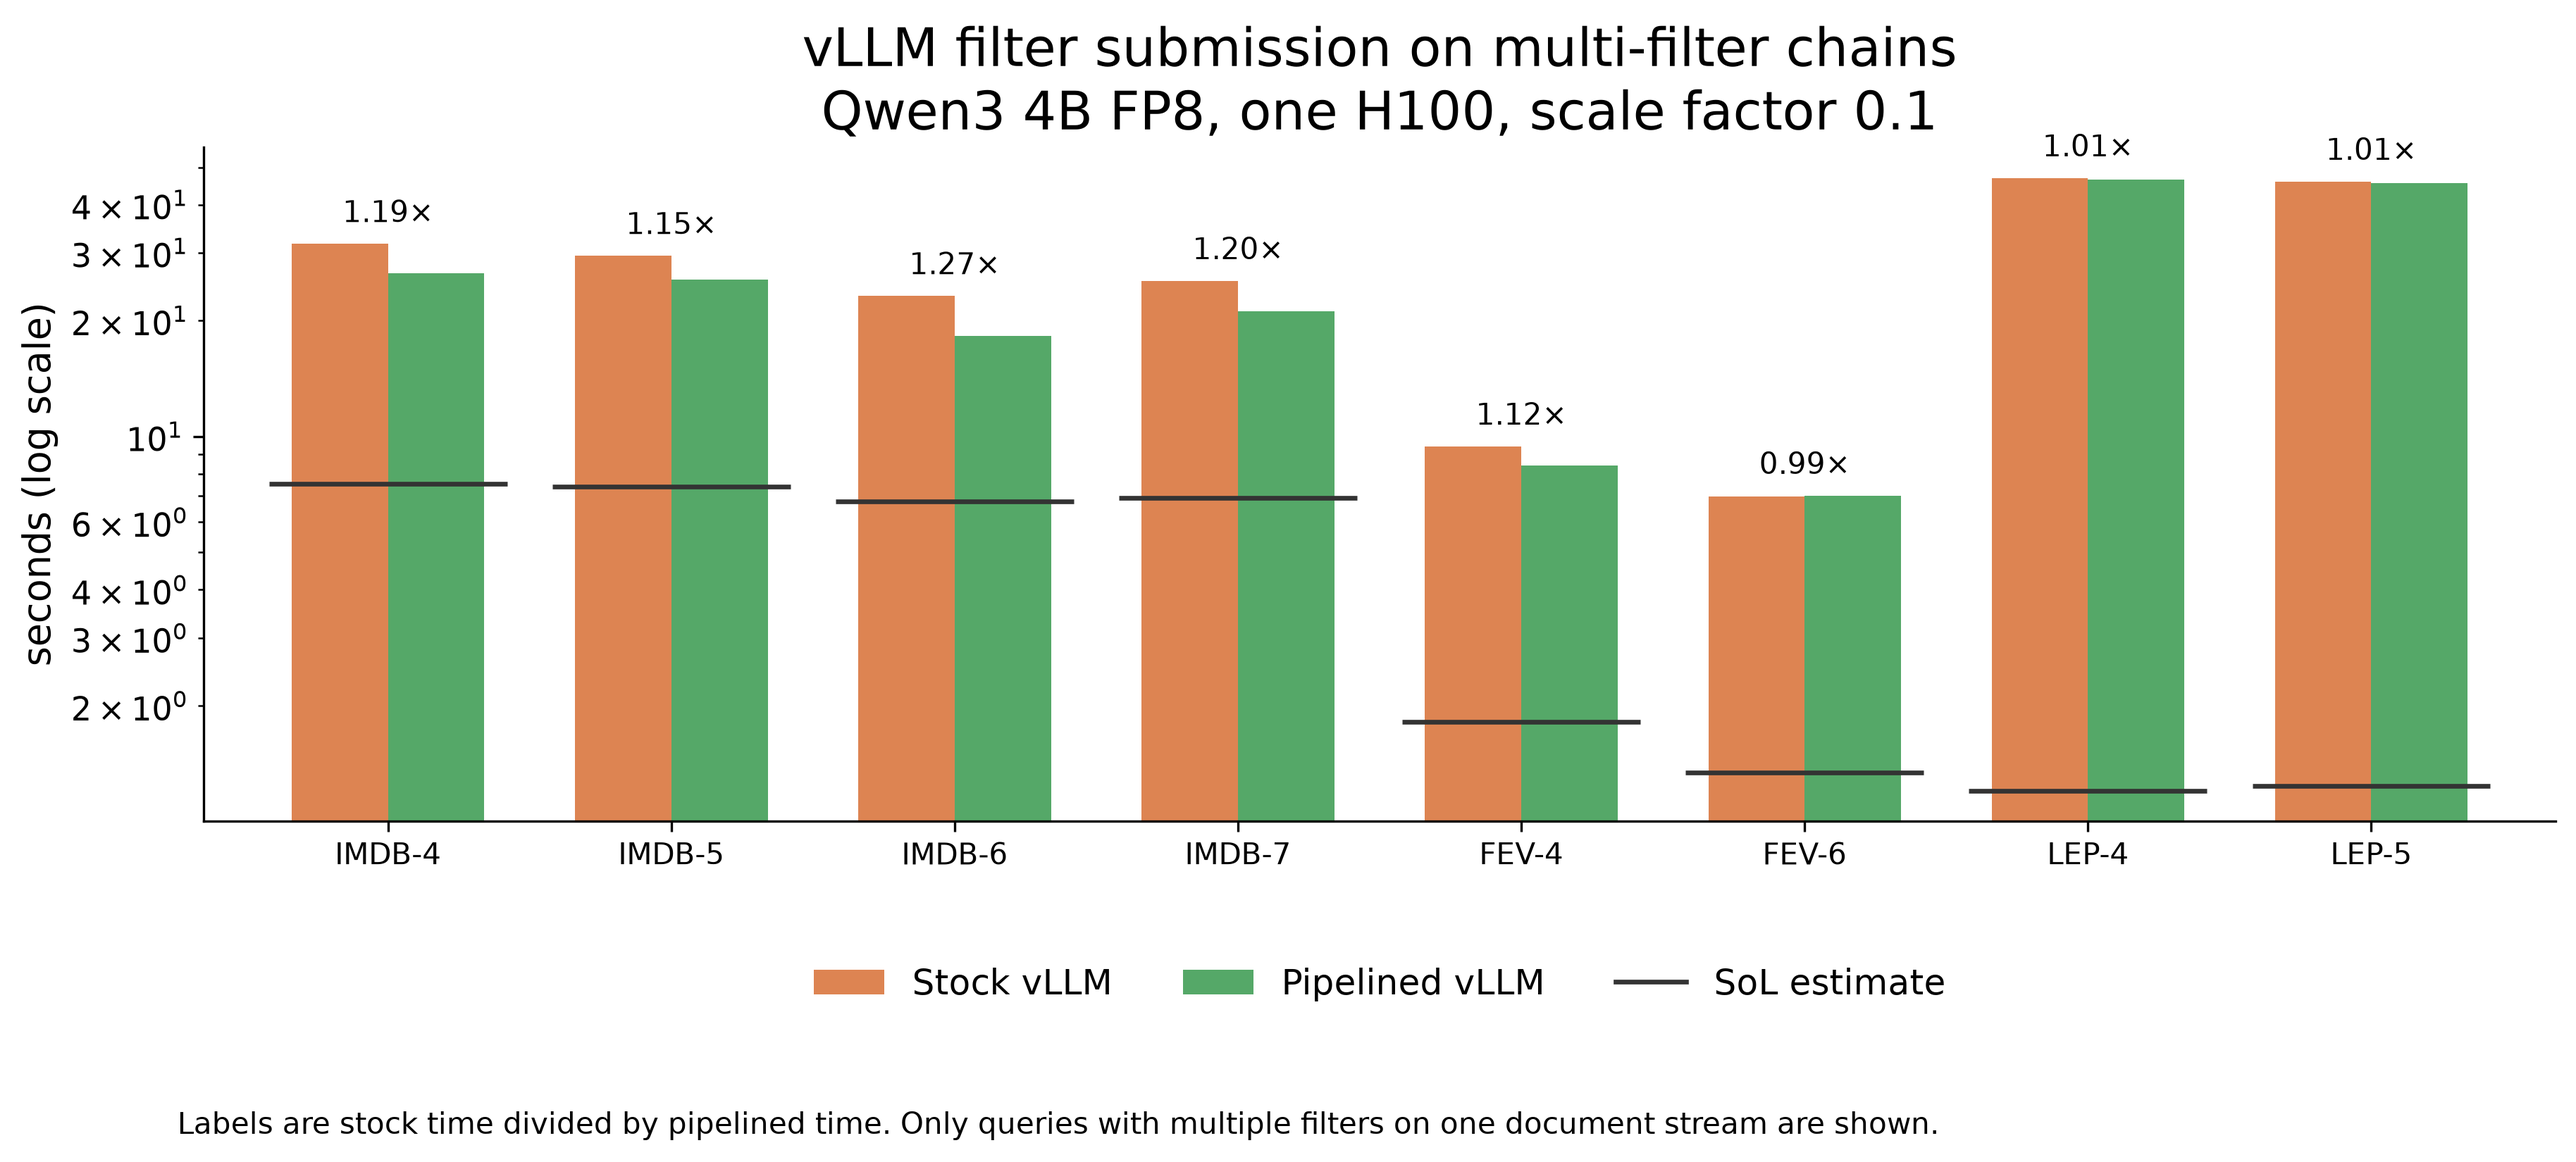
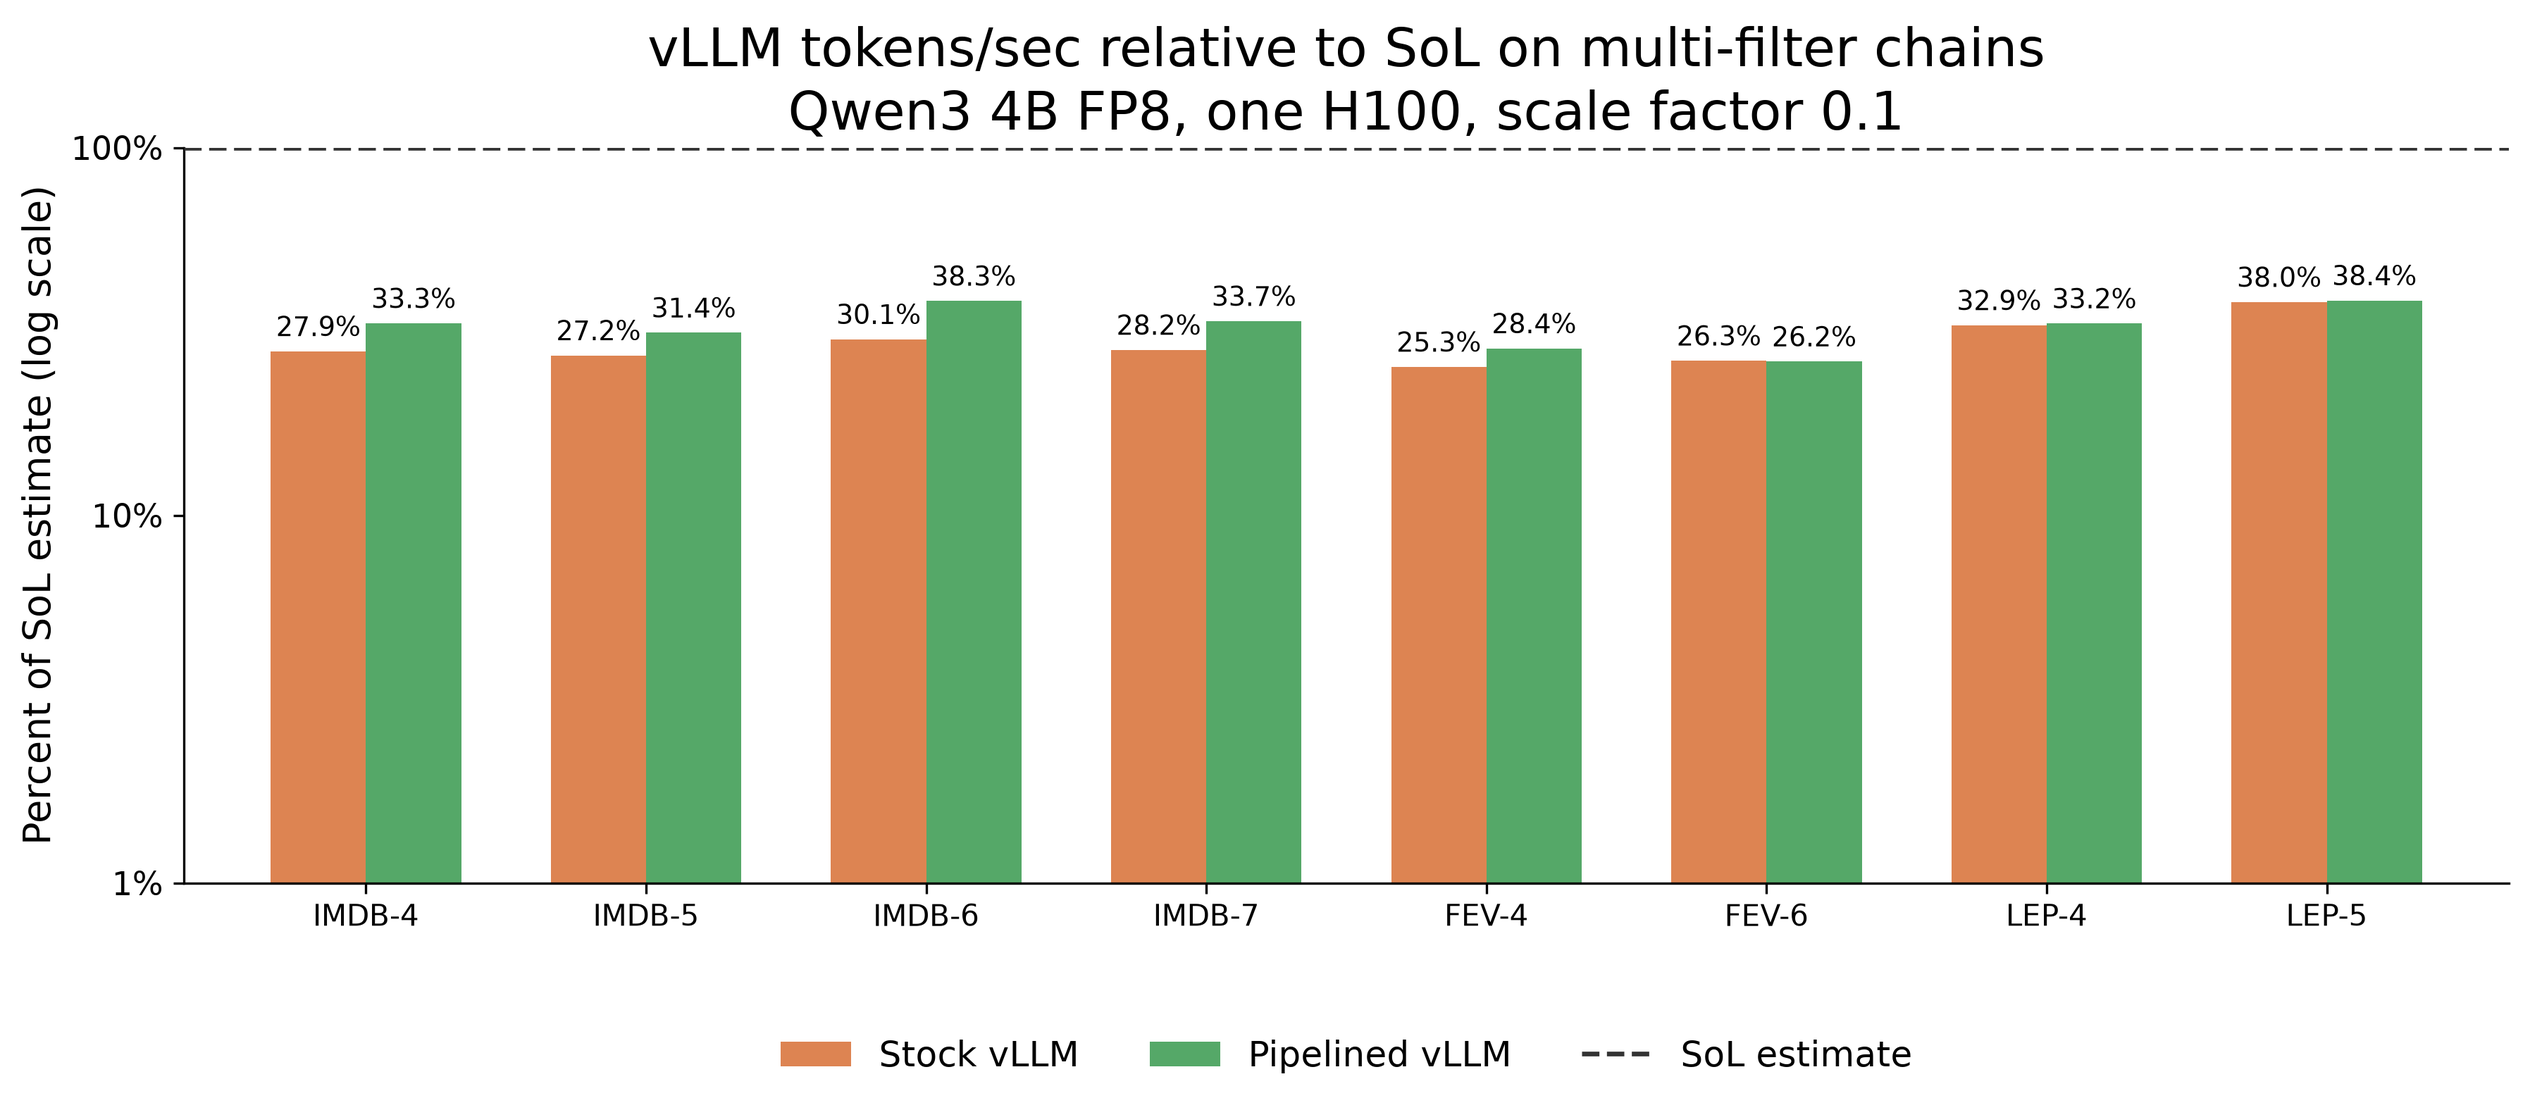
Show vLLM filter throughput relative to SoL

diff --git a/blogs/intro/blogpost.html b/blogs/intro/blogpost.html
@@ -1494,11 +1494,11 @@ queries.</p>
 <div class="figure-block wide-figure">
 <p><a href="figures/quailb_filter_submission.pdf"><img
 src="figures/quailb_filter_submission.png" style="width:100.0%"
-alt="Stock and pipelined vLLM latency on the eight QUAIL-B queries with multi-filter chains, with SoL estimates." /></a></p>
-<p><em>Figure 9. Stock vLLM finishes one complete filter stage before
-submitting the next. Pipelined vLLM advances each passing document
-immediately. Labels show stock time divided by pipelined time.
-Horizontal lines show SoL estimates.</em></p>
+alt="Stock and pipelined vLLM requested input token throughput relative to SoL on the eight QUAIL-B queries with multi-filter chains." /></a></p>
+<p><em>Figure 9. Requested input tokens per second as a percent of each
+query’s SoL estimate. Stock vLLM finishes one complete filter stage
+before submitting the next. Pipelined vLLM advances each passing
+document immediately. The dashed line marks 100% of SoL.</em></p>
 </div>
 <p>Pipelining reduces latency on seven of the eight queries. The mean
 stock-to-pipelined ratio is 1.12 times. The largest change is IMDB-6,

diff --git a/blogs/intro/make_bio4_plots.py b/blogs/intro/make_bio4_plots.py
@@ -43,6 +43,7 @@ from pathlib import Path
 import matplotlib.pyplot as plt
 from matplotlib.lines import Line2D
 from matplotlib.patches import Patch
+from matplotlib.ticker import FixedLocator, FuncFormatter, NullLocator
 from quailb_results import PIPELINE_QUERIES, QUERY_ORDER, load_results
 
 HERE = Path(__file__).resolve().parent
@@ -140,7 +141,7 @@ def plot_aggregate(workdir):
 
 
 def plot_filter_submission(workdir):
-    """Compare vLLM filter submission strategies where they differ."""
+    """Compare vLLM throughput relative to SoL where submission differs."""
     rows, sol = load_results(workdir)
     figure, axis = plt.subplots(figsize=(12.5, 5.8))
     positions = list(range(len(PIPELINE_QUERIES)))
@@ -150,61 +151,67 @@ def plot_filter_submission(workdir):
         ("pipelined_vllm", "Pipelined vLLM", TEAL, width / 2),
     )
     for method, _, color, offset in methods:
-        values = [rows[method][query]["runtime_s"] for query in PIPELINE_QUERIES]
-        axis.bar(
+        values = []
+        for query in PIPELINE_QUERIES:
+            measured_rate = rows[method][query]["input_tokens_per_second"]
+            estimate = sol[query]
+            sol_rate = estimate["input_tokens"] / estimate["runtime_s"]
+            values.append(100 * measured_rate / sol_rate)
+        containers = axis.bar(
             [position + offset for position in positions],
-            values,
+            [value - 1 for value in values],
             width,
+            bottom=1,
             color=color,
             zorder=2,
         )
-    for position, query in zip(positions, PIPELINE_QUERIES):
-        axis.hlines(
-            sol[query]["runtime_s"],
-            position - 0.42,
-            position + 0.42,
-            color=DARK,
-            linewidth=1.6,
-            zorder=3,
+        axis.bar_label(
+            containers,
+            labels=[f"{value:.1f}%" for value in values],
+            padding=3,
+            fontsize=9,
         )
-        stock = rows["stock_vllm"][query]["runtime_s"]
-        pipelined = rows["pipelined_vllm"][query]["runtime_s"]
-        axis.annotate(
-            f"{stock / pipelined:.2f}×",
-            (position, max(stock, pipelined)),
-            xytext=(0, 5),
-            textcoords="offset points",
-            ha="center",
-            va="bottom",
-            fontsize=10,
-        )
+    axis.axhline(
+        100,
+        color=DARK,
+        linewidth=1.6,
+        linestyle="--",
+        dash_capstyle="butt",
+        zorder=3,
+    )
     axis.set_yscale("log")
-    axis.set_ylabel("seconds (log scale)")
+    axis.set_ylim(1, 100)
+    axis.set_ylabel("Percent of SoL estimate (log scale)")
+    axis.yaxis.set_major_locator(FixedLocator([1, 10, 100]))
+    axis.yaxis.set_minor_locator(NullLocator())
+    axis.yaxis.set_major_formatter(
+        FuncFormatter(lambda value, _position: f"{value:.0f}%")
+    )
     axis.set_xticks(positions, PIPELINE_QUERIES)
     axis.set_xlim(-0.65, len(PIPELINE_QUERIES) - 0.35)
     axis.set_title(
-        "vLLM filter submission on multi-filter chains\n"
+        "vLLM tokens/sec relative to SoL on multi-filter chains\n"
         "Qwen3 4B FP8, one H100, scale factor 0.1"
     )
     axis.legend(
         handles=[
             Patch(facecolor=ORANGE, label="Stock vLLM"),
             Patch(facecolor=TEAL, label="Pipelined vLLM"),
-            Line2D([0], [0], color=DARK, linewidth=1.6, label="SoL estimate"),
+            Line2D(
+                [0],
+                [0],
+                color=DARK,
+                linewidth=1.6,
+                linestyle="--",
+                label="SoL estimate",
+            ),
         ],
         loc="upper center",
         bbox_to_anchor=(0.5, -0.17),
         ncol=3,
         frameon=False,
     )
-    figure.text(
-        0.08,
-        0.015,
-        "Labels are stock time divided by pipelined time. "
-        "Only queries with multiple filters on one document stream are shown.",
-        fontsize=10,
-    )
-    figure.subplots_adjust(bottom=0.27, left=0.09, right=0.98, top=0.82)
+    figure.subplots_adjust(bottom=0.22, left=0.10, right=0.98, top=0.82)
     destination = HERE / "figures" / "quailb_filter_submission"
     figure.savefig(destination.with_suffix(".pdf"), bbox_inches="tight")
     figure.savefig(destination.with_suffix(".png"), dpi=300, bbox_inches="tight")

diff --git a/blogs/intro/blogpost.md b/blogs/intro/blogpost.md
@@ -486,9 +486,9 @@ The 31 Quail runs take 1,700.68 seconds in total, compared with 4,563.75 seconds
 The two vLLM submission strategies differ only when multiple filters apply to the same document stream. Figure 9 therefore shows those eight queries instead of repeating two equivalent vLLM bars on all 31 queries.
 
 ::: {.figure-block .wide-figure}
-[![Stock and pipelined vLLM latency on the eight QUAIL-B queries with multi-filter chains, with SoL estimates.](figures/quailb_filter_submission.png){width=100%}](figures/quailb_filter_submission.pdf)
+[![Stock and pipelined vLLM requested input token throughput relative to SoL on the eight QUAIL-B queries with multi-filter chains.](figures/quailb_filter_submission.png){width=100%}](figures/quailb_filter_submission.pdf)
 
-*Figure 9. Stock vLLM finishes one complete filter stage before submitting the next. Pipelined vLLM advances each passing document immediately. Labels show stock time divided by pipelined time. Horizontal lines show SoL estimates.*
+*Figure 9. Requested input tokens per second as a percent of each query's SoL estimate. Stock vLLM finishes one complete filter stage before submitting the next. Pipelined vLLM advances each passing document immediately. The dashed line marks 100% of SoL.*
 :::
 
 Pipelining reduces latency on seven of the eight queries. The mean stock-to-pipelined ratio is 1.12 times. The largest change is IMDB-6, where pipelined vLLM is 1.27 times faster. FEV-6 differs by less than 1%, and the two LePaRD queries differ by about 1%.
